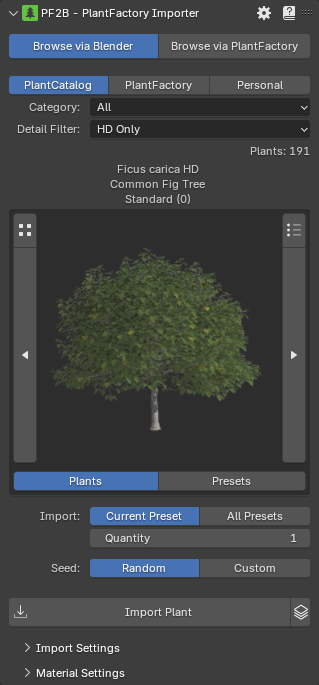
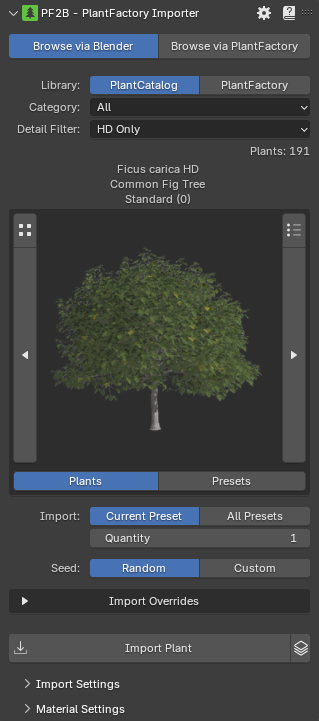
1.1.1

diff --git a/docs/workflow/browse_via_blender.md b/docs/workflow/browse_via_blender.md
@@ -33,9 +33,42 @@
 - **Seed**:
     - **Random**
     - **Custom**
+- **Import Overrides** These settings allow you to manually define the Age/Maturity, Health and Season of imported plants. See the [Import Overrides](#import-overrides) section below for details.
 - :blender_icon_import: **Import Plant**: Starts importing the selected plant(s).
-- :octicons-stack-24:: **Use import Queue**, see the next section for details.
+- :octicons-stack-24:: **Use import Queue**, see the [Queue](#queue) section for details.
 
+
+### Import Overrides
+
+These settings allow you to manually define the **Age/Maturity**, **Health**, and **Season** of imported plants. Each property has its own **checkbox** and **slider**. To activate an override for a specific property, tick the checkbox next to it and adjust the slider to your desired value.
+
+![plant gallery top panel](../images/import-overrides.webp){ .img-box align=left }
+
+When an override is enabled, it will replace the plant's default preset value for that property during import. If left unticked, the original preset value will be used instead.
+
+- **Settings**:
+    - **Maturity**: Controls the plant's maturity, representing its current age as a ratio of its maximum potential age. A value of 0 represents a young plant, while 100 indicates the plant has reached its maximum age.
+    - **Health**: Controls the plant's health from 0 to 100. A value of 0 represents a dying plant, while 100 indicates a thriving, fully healthy plant.
+    - **Season**: Select the day of the year (1-365) to determine the season based on northern hemisphere meteorological standards.
+
+The override settings are stored in the [Plant Details](./post_processing.md#plant-details) section after import, in case you need to reference them later.
+
+!!! abstract "Override Examples"
+    Here is the **Ficus carica HD** plant exported with different override settings, all using the same seed for consistency. These are just examples, since you have fine-grained control over the override values, you can generate any variation in between.
+
+    **Maturity:**
+    ![Import Override example](../images/plants/overrides/Maturity.webp){ .on-glb data-description="Import Override: Maturity" }
+
+    **Health:**
+    ![Import Override example](../images/plants/overrides/Health.webp){ .on-glb data-description="Import Override: Health" }
+
+    **Season:**
+    ![Import Override example](../images/plants/overrides/Season.webp){ .on-glb data-description="Import Override: Season" }
+
+!!! info2 "Note"
+    When using these overrides, values such as plant height and polygon count shown in the preset descriptions may not be accurate, as the override settings affect how the plant is generated.
+
+<div style="clear:both"></div>
 
 
 
@@ -72,6 +105,7 @@ In this view, you can see all available plants and presets. To exit the gallery 
 Below is a breakdown of every button and function inside the gallery.
 
 
+
 #### Plants
 
 ![plant gallery top panel](../images/gallery_plants_top-panel.webp){ .img-box .on-glb }
@@ -95,6 +129,7 @@ If we look at an individual plant inside the gallery we have the following butto
     - **Search on Wikipedia**: lets you search for the plant species on Wikipedia; hold down Shift while clicking to search on DuckDuckGo instead.
 
 <div style="clear:both"></div>
+
 
 
 #### Presets

diff --git a/docs/workflow/post_processing.md b/docs/workflow/post_processing.md
@@ -15,20 +15,19 @@ The materials are categorized into: `Leaf`, `Stalk`, `Flower`, `Fruit`, `Bark`, 
 
 Select a plant in the `3D Viewport`, and the detected material types will be displayed, as shown below. Clicking on a material type, such as "Leaf," opens a popup where you can edit its material properties.
 
-The checkboxes to the left of each property allow you to enable or disable updates for that specific value when applying changes. For example, if you only want to update **Translucency**, you can uncheck all other boxes and click **OK** to apply only that change.
-
-![Post Processing](../images/post-processing.webp){ .img-box align=left }
+![Post Processing](../images/post-processing.webp){ .img-box }
 
 ![Post Processing](../images/post-processing_leaf-example.webp){ .img-box align=left }
+
+The checkboxes to the left of each property allow you to enable or disable updates for that specific value when applying changes. For example, if you only want to update **Translucency**, you can uncheck all other boxes and click **OK** to apply only that change.
 
 <div style="clear:both"></div>
 
 
-#### Plant Details
+## Plant Details
 
 The Plant Details section displays information about the imported plant.
 
+![Post Processing](../images/post-processing_plant-details.webp){ .img-box align=left }
+
 - **Open**: Opens this plant in the Plant Browser. Useful if you want to import additional instances of the same plant type into the scene.
-
-
-

diff --git a/docs/changelog.md b/docs/changelog.md
@@ -12,6 +12,19 @@ Here, you can find a list of all updates, enhancements, and bug fixes made to PF
 
 <div class="changelog" markdown>
 
+### 1.1.1 <small>2025-04-26</small>
+
+- **New Functionality**
+    - Added `Import Overrides` that allow you to manually define the Age/Maturity, Health and Season of imported plants. When enabled, the selected values will override the plant's default preset settings during import. [More info](workflow/browse_via_blender.md#import-overrides).
+- **Interface**:
+    - The `Plant Details` section and the information gathered from imported plants have been restructured for clarity. [More info](workflow/post_processing.md#plant-details). Examples include:
+        - `Age` and `Age Max`, previously shown as arbitrary values, are now used to derive the plant's **maturity** value (used internally by PlantFactory), which ranges from 0 to 100%.
+        - `Season` is no longer shown as a raw float (e.g., 1.0), but instead displayed as a **percentage** along with an **approximate day of the year** (1–365).
+        - `Health` is now shown as a **percentage from 0 to 100**, instead of a float like 1.0.
+        - If import overrides were used, the `Plant Details` section will now also display those override values for the selected plant.
+
+---
+
 ### 1.1.0 <small>2025-04-07</small>
 
 - **Interface**:

diff --git a/docs/support/faq.md b/docs/support/faq.md
@@ -52,6 +52,14 @@ tags:
 ---
 
 
+### What does the number in parentheses mean in preset names?
+
+:   It indicates the plant's **maturity**, representing its current age as a percentage of its maximum potential age. A value of **0** means the plant is very young, while **100** means it has reached full maturity.
+
+
+---
+
+
 ### Why is my Plant Gallery View so small when using the "Browse Via Blender" mode?
 
 :   Check that your `3D View` is large enough, as the gallery size depends on it. If you have the view split (for example, with the `Shader Editor`), it may cause the gallery to appear smaller.
